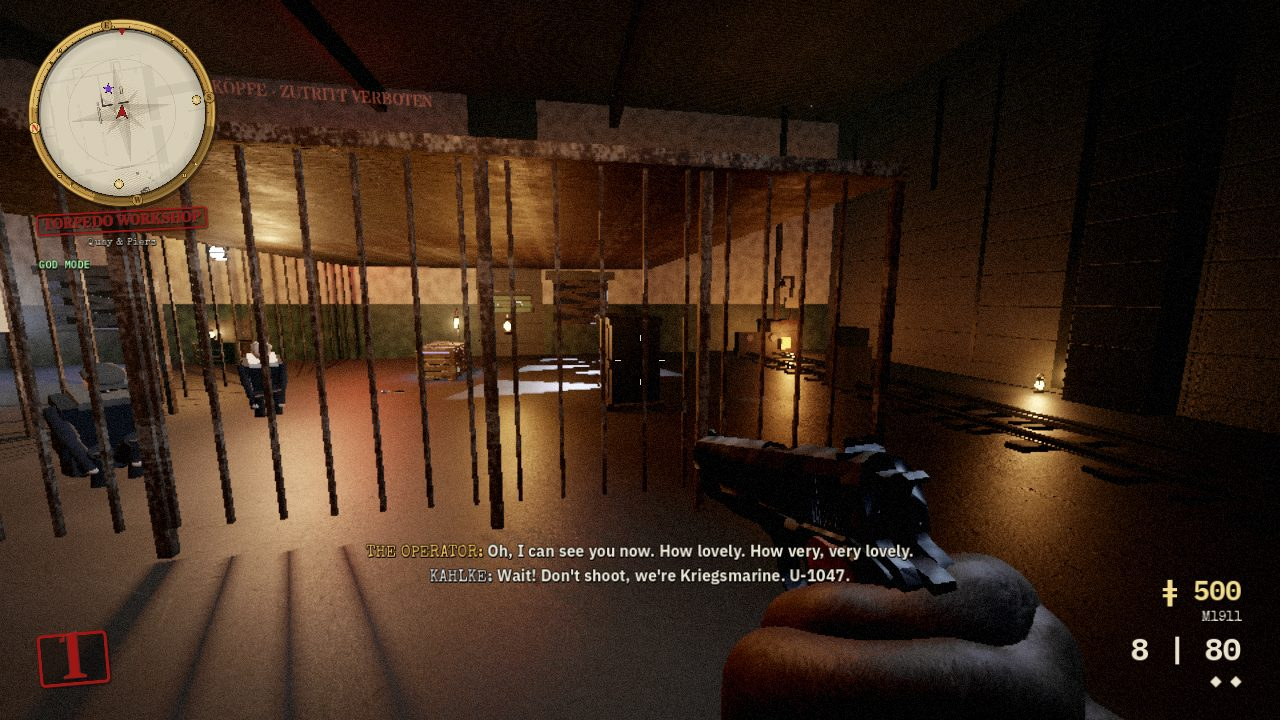
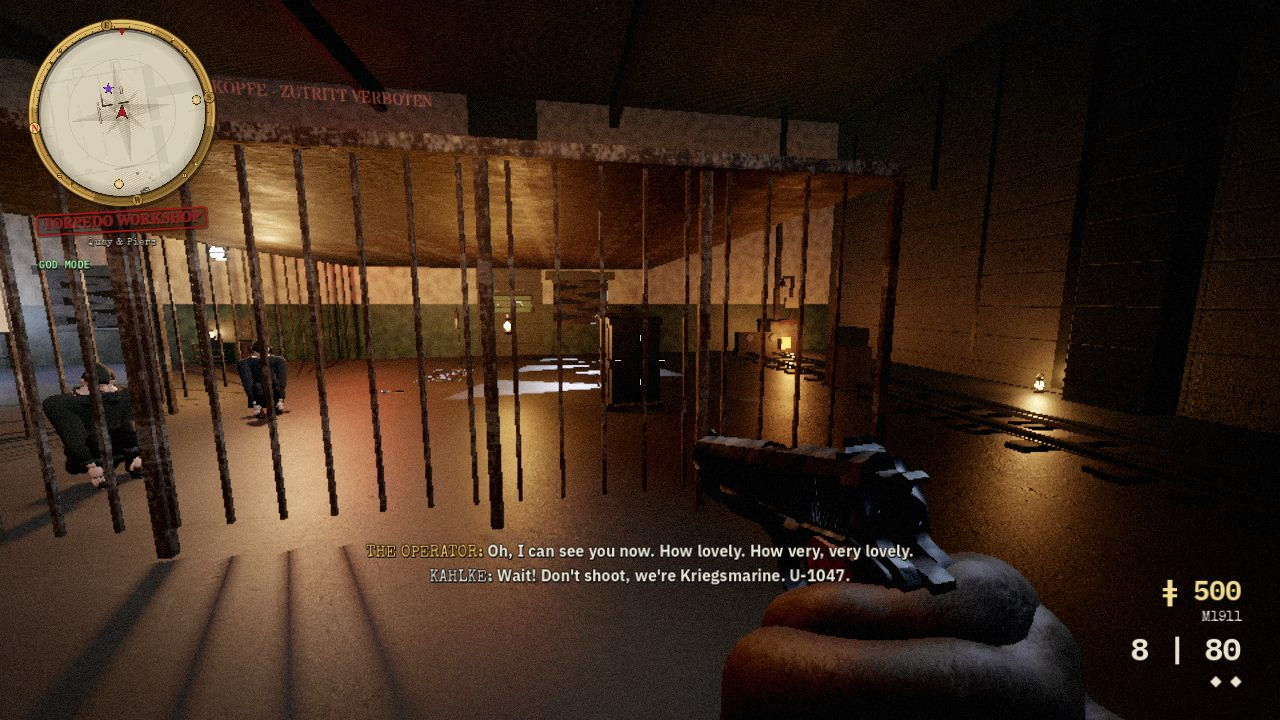
T-273: the survivors and the night shift wear the project's modelled people; walk layers; probe reads each map's file
person (a people.json id) on every Totenhafen survivor and patron, used for the risen too
(inn_opening / inn_survivors, default the row's id); inn_survivor walks on the file's nav_layers
(default 1); probe_npc_walls reads the running map's own survivors file. Map 0 unchanged.
Renders of the cage and the cannery.

diff --git a/docs/u21/t273_map02_detail.md b/docs/u21/t273_map02_detail.md
@@ -214,8 +214,10 @@ walk out of the cage's gap to posts `[50.5, 0, 19.0]` (facing the cradles and th
 (facing the workshop's door). Map 0's ally numbers. They rise as the `sailor` kind. Nine text lines each
 (`KAH_SURV_*`, `PIE_SURV_*`) and the squad's warning in a category of this map's (`M2_SURV_TURN`: Map 0's says
 "upstairs"), 22 lines in all, every one listed as not baked in `audio_manifest.json` (a subtitle with a timed
-silence); both cast in `voice_cast.json` (German accent, for a later bake). Their bodies are PatronBody's
-procedural ones (no person GLB built for them).
+silence); both cast in `voice_cast.json` (German accent, for a later bake). Their bodies are the project's modelled people
+(`person` in each row, reused the way `people_extra.json` reuses them: Kahlke wears Ammer's, Pietsch the
+Obergefreiter's; neither is anyone else on Totenhafen); the walk from the cage asks the workshop's navigation layer
+(`nav_layers` 4).
 
 Verified: `smoke_map02_survivors` (new, Map 0's survivor smoke on this map) PASS: hidden before the door, spots and
 posts on the navmesh, nothing solid on them; the door reveals them cowering with the arm prompt; Pietsch's reveal
@@ -269,8 +271,10 @@ touched (round 1 is before its `min_round` 3).
   see the report.
 - Not seen in motion: a capture holds the rounds, so the opening's run was not rendered (`19_side_door_night` shows
   the shut door, its frame and sign). The sailors cowering in the cage were (`18_survivors_night`).
-- The patrons and the sailors are PatronBody's procedural bodies (no person GLB built for them); the risers get the
-  `dockworker` / `sailor` kits.
+- The patrons and the sailors wear the project's modelled people (`person`: Boldt Rother's, Rahn Sobotta's, Tews
+  Agnes Pohl's, Kahlke Ammer's, Pietsch the Obergefreiter's; none of them is anyone else on Totenhafen), and when
+  they rise the same body rises. Rendered and looked at: `18_survivors_night` (the two crouched in the cage),
+  `20_night_shift_night` (the three by the conveyor before round 1).
 - The opening's patrons duck through the surf steps' chain at the parapet's west end (they have no colliders and the
   chain is dressing); not seen.
 
@@ -284,5 +288,20 @@ cannery's night shift running out of a new side door onto the quay (`map02_openi
 caught and risen on the quay, one away down the sea stairs. The side door's doorway is filled for good with an
 invisible collider: only the patrons (no colliders) pass, so the cannery's 1000 door is never skipped; the leaf is
 never barred again. One shared change, data-driven with Map 0's default kept: `inn_opening.gd`
-`front_door.face_door`. 30 new text lines (not baked) and five cast rows. Verified by two new smokes and Map 0's
+`front_door.face_door`. 30 new text lines (not baked) and five cast rows. Every survivor and patron wears one of the project's modelled people
+(`person`; the risen too). Shared changes (all data-driven, Map 0's defaults kept): `inn_opening.gd`
+`front_door.face_door` and `person` for the risen, `inn_survivors.gd` `person`, `inn_survivor.gd` `nav_layers`;
+`probe_npc_walls.gd` reads each map's own survivors file. Verified by two new smokes and Map 0's
 opening and survivor smokes.
+
+### Follow-up in the addition (the coordinator: real person models; a full GUT run)
+
+Shared changes, all data-driven with Map 0's behaviour unchanged (Map 0's files set none of the keys):
+- `inn_opening.gd`, `inn_survivors.gd`: a row's `person` (a people.json id) is the body the risen wear too
+  (`warm_risen` / `dress_risen`); without it, the row's id, as before. PatronBody already read `person` for the living.
+- `inn_survivor.gd`: the walk to the post asks the survivors file's `nav_layers` (default 1, Map 0's single layer);
+  Totenhafen's zones are on their own layers, so the cage-to-post path needs the workshop's.
+- `probe_npc_walls.gd` (the tool behind `test_npc_navmesh`): reads the running map's own survivors file (it read Map
+  0's on every map) and walks with its `nav_layers`.
+- `test_map_detail.test_opening_and_survivors_read_their_file_by_map` no longer lists Totenhafen among the maps
+  without the files.
